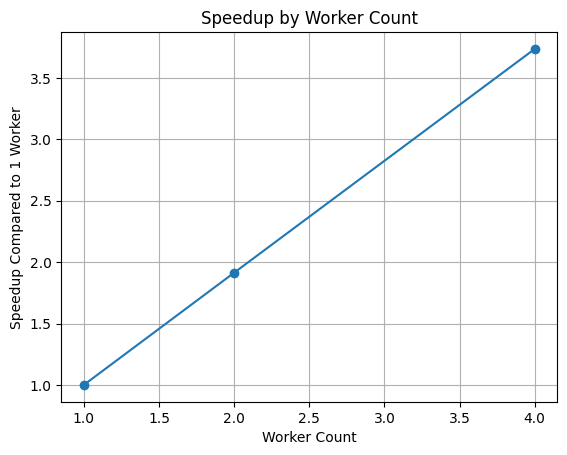
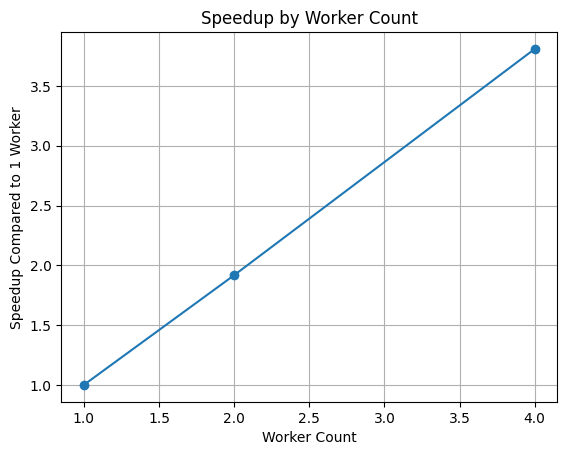
Added automated scaling experiment
Added automated scaling experiment including docker auto starter, api caller and runner and quitter for each number of workers.

diff --git a/README.md b/README.md
@@ -146,6 +146,16 @@ timestamp,task_count,delay_seconds,total_runtime_seconds,throughput_tasks_per_se
 
 ---
 
+## Automated Scaling Experiment
+
+The project includes a scaling experiment script that automatically tests multiple worker concurrency levels.
+
+Example:
+
+```bash
+./scripts/run_scaling_experiment.sh 1 2 4
+
+
 ## What Has Been Implemented
 
 - Distributed task execution